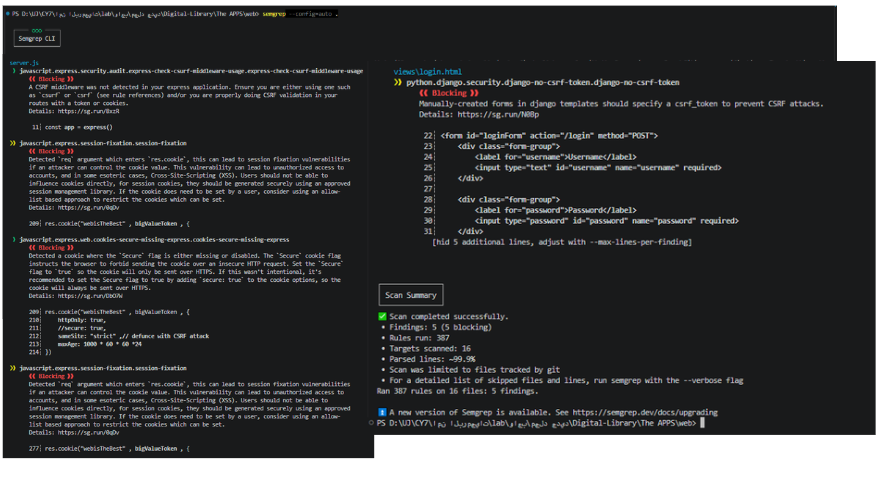
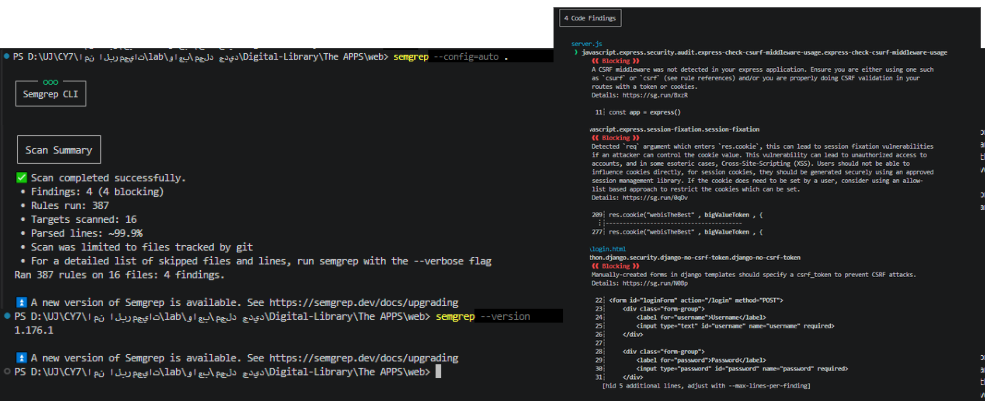
update some of problem

diff --git a/The APPS/web vulnerability/server.js b/The APPS/web vulnerability/server.js
@@ -215,7 +215,6 @@ app.post("/login" , (req , res) => {
     
     res.cookie("webisTheBest" , bigValueToken , {
         httpOnly: true, // is defens with stolen cookie in JavaScript
-        secure: true, // this not can send the cookie only https can send
         sameSite: "strict" ,// defunce with CSRF attack
         maxAge: 1000 * 60 * 60 *24
     })
@@ -272,7 +271,6 @@ app.post("/register" , (req , res) => {
     
     res.cookie("webisTheBest" , bigValueToken , {
         httpOnly: true, // is defens with stolen cookie in JavaScript 
-        secure: true, // this can not send the cookie only https can send
         sameSite: "strict" ,// defunce with CSRF attack
         maxAge: 1000 * 60 * 60 *24
     })

diff --git a/The APPS/web/server.js b/The APPS/web/server.js
@@ -208,7 +208,7 @@ app.post("/login" , (req , res) => {
     
     res.cookie("webisTheBest" , bigValueToken , {
         httpOnly: true,
-        //secure: true,
+        secure: true,
         sameSite: "strict" ,// defunce with CSRF attack
         maxAge: 1000 * 60 * 60 *24
     })
